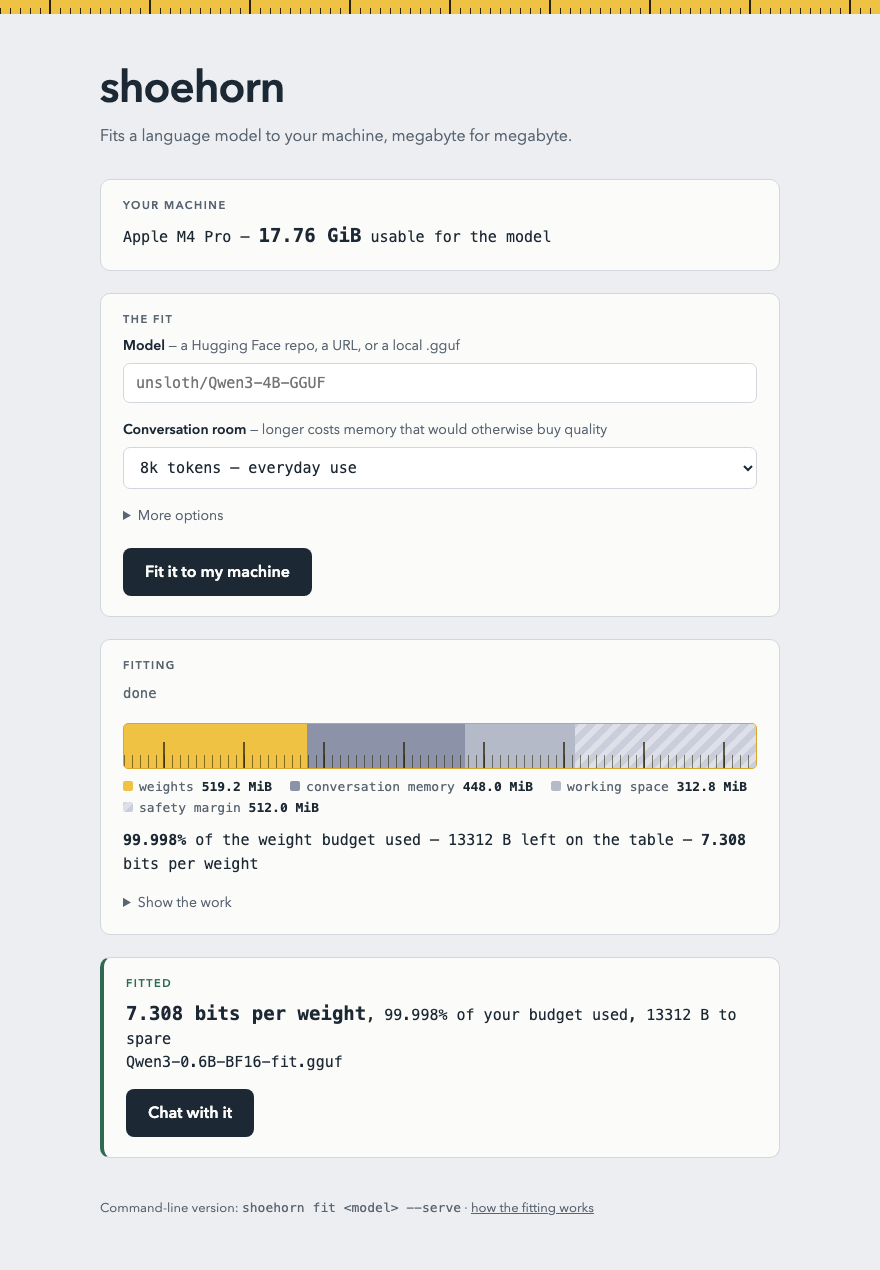
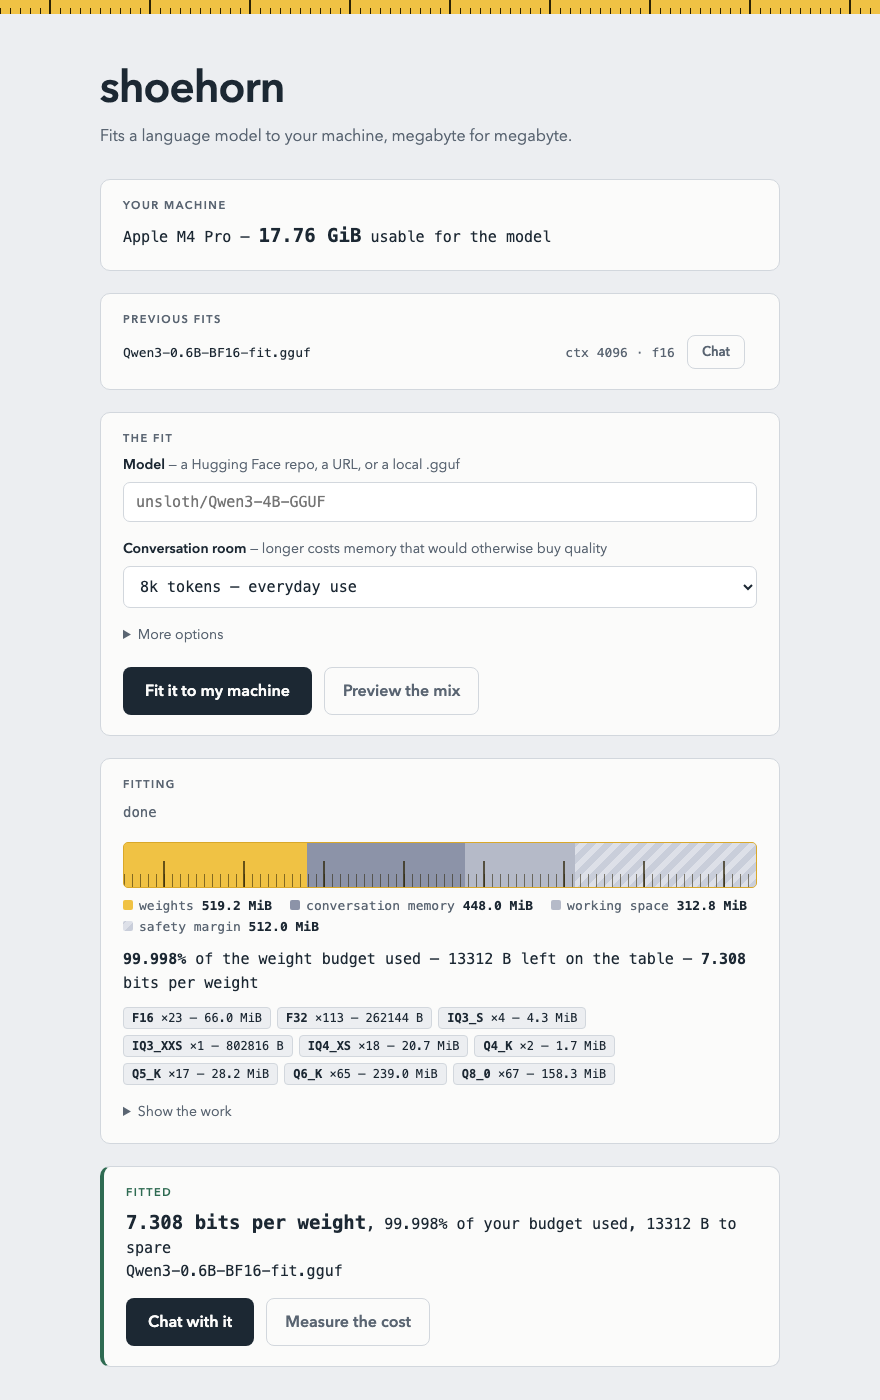
docs: sweep README for drift — calibrate documented, IQ ladder, non-Apple probes in How-it-works, testing section current, fresh UI screenshots

diff --git a/README.md b/README.md
@@ -196,18 +196,20 @@ The pipeline runs in five stages.
 
 Probing comes first. On Apple Silicon, "VRAM" is not RAM: Metal will only wire
 a fraction of unified memory for the GPU. shoehorn asks the Metal device for
-`recommendedMaxWorkingSetSize` (17.76 GiB on a 24 GB M4 Pro, about 75%).
-`--budget` overrides the probe, which also lets you quantize for a different
-machine ("make this fit my friend's 8 GiB M1") or for an artificial envelope.
+`recommendedMaxWorkingSetSize` (17.76 GiB on a 24 GB M4 Pro, about 75%). On
+other machines it asks NVML — or `rocm-smi` on AMD — for the first device's
+free VRAM. `--budget` overrides the probe, which also lets you quantize for a
+different machine ("make this fit my friend's 8 GiB M1") or for an
+artificial envelope.
 
 Next it computes the budget. From the target context length and the model's
 own GGUF hyperparameters, shoehorn computes the KV cache size exactly and
 estimates the compute buffer, then subtracts both plus a safety `--reserve`.
 What remains is the weight budget. See [The budget model](#the-budget-model).
 
-Then it measures. Every quantizable tensor gets a candidate ladder (Q4_K,
-Q5_K, Q6_K, Q8_0, F16, or the legacy 32-block formats when the row length
-isn't divisible by 256). Each (tensor, candidate) pair is scored by actually
+Then it measures. Every quantizable tensor gets a candidate ladder — the IQ
+codebook formats (IQ2_XXS up through IQ4_XS), the K-quants, Q8_0, and F16,
+or the legacy 32-block formats when the row length isn't divisible by 256. Each (tensor, candidate) pair is scored by actually
 encoding and decoding a sample of rows and accumulating the imatrix-weighted
 squared error. That is the true end-to-end distortion under the decoder
 llama.cpp will use. The work parallelizes across all cores; on Qwen3-0.6B the
@@ -365,7 +367,8 @@ Fit flags, shared by `fit`, `plan`, and `quantize`:
 | `--budget` | GPU probe | total memory envelope: `18GiB`, `800MB`, `4.5G`, or plain bytes |
 | `--target` | — | budget for a different unified-memory machine by RAM size, e.g. `--target 16GB` (approximates the macOS working-set limit as 74% of RAM) |
 | `--kv` | f16 | KV cache type to budget for and run with (`f16`, `q8_0`, `q4_0`); `q8_0` roughly halves the KV term, freeing that memory for weights |
-| `--reserve` | 512MiB | safety margin subtracted from the envelope |
+| `--reserve` | 512MiB (160MiB with `--calibrate`) | safety margin subtracted from the envelope |
+| `--calibrate` | off | after writing, load the result in llama.cpp once, measure real KV/compute allocations, re-solve with them, and rewrite — spending the recovered estimate slack on quality (unchanged tensors are reused) |
 | `--exact-errors` | off | score every row instead of a 128-row sample per tensor |
 
 `plan` and `quantize` print the full per-tensor table (shape, chosen type,
@@ -377,7 +380,7 @@ is passed through (`--port`, `--api-key`, ...).
 
 `vram` prints the detected device and its usable GPU memory: Metal's
 recommended working-set size on macOS, NVML's free VRAM on the first NVIDIA
-device elsewhere.
+device elsewhere, with a `rocm-smi` fallback for AMD.
 
 `eval` wraps `llama-perplexity` so you can check what a fit actually cost:
 it measures perplexity on held-out text (by default man pages disjoint from
@@ -504,6 +507,7 @@ filled to the byte.
 
 ```
 src/gguf.rs      GGUF v3 reader/writer (arbitrary KVs preserved, aligned offsets)
+src/fetch.rs     HF repo / URL resolution, shard-aware downloads, auto-imatrix
 src/quant.rs     the 8 scale+round encoders + decoders, weighted scale search
 src/quant_iq.rs  the 7 IQ codebook encoders + decoders, lattice neighbour search
 src/iq_tables.rs script-extracted lattice/codebook tables (generated file)
@@ -513,7 +517,8 @@ src/vram.rs      GPU probe: Metal working set (macOS), NVML free VRAM (elsewhere
 src/main.rs      CLI, budget model, measurement orchestration (rayon)
 src/ui.rs        `shoehorn ui` local web server driving fit as a subprocess
 src/ui.html      the page it serves (embedded at compile time)
-DESIGN.md        the how/why of every decision, in order (D1-D10), gotchas
+src/e2e_tests.rs synthetic-GGUF pipeline test + metadata roundtrip
+DESIGN.md        the how/why of every decision, in order (D1-D14), gotchas
 docs/            decision-graph export (deciduous)
 ```
 
@@ -521,8 +526,16 @@ docs/            decision-graph export (deciduous)
 
 `cargo test` covers round-trip encode/decode for every format against RMSE
 tolerance, a check that imatrix weighting actually shifts the fit toward
-important columns, and solver unit tests (max quality when everything fits,
-budget respected, infeasibility detected).
+important columns, solver unit tests (max quality when everything fits,
+budget respected, infeasibility detected), HF file/shard selection, the
+rocm-smi parser, a metadata roundtrip over every GGUF value type, and an
+end-to-end pipeline test that synthesizes a small BF16 GGUF, fits it into a
+deliberately tight budget, and re-reads the output. All of it runs in CI on
+macOS, Linux, and Windows.
+
+For measuring what a specific fit cost on your machine, `shoehorn eval -m
+fitted.gguf --baseline source.gguf` prints held-out perplexity for both and
+the delta.
 
 The end-to-end oracle is llama.cpp itself: an independent implementation
 loads the quantized file on Metal. A single mispacked bit plane produces
@@ -535,10 +548,10 @@ perplexity is strong evidence the encoders are bit-compatible.
   not implemented; below IQ2 quality collapses for all but very large models
   anyway. Expect IQ-heavy encodes to be slower than K-quant ones (lattice
   neighbour search): the 0.6B test model takes ~25 s instead of ~6 s.
-- The compute buffer is an estimate. Real allocation varies by llama.cpp
-  version and flash-attention path; `--reserve` absorbs the difference. A
-  `--calibrate` mode that launches llama.cpp once and reads back actual
-  allocations would replace the guess with a measurement.
+- The compute buffer is an estimate (real allocation varies by llama.cpp
+  version and flash-attention path; `--reserve` absorbs the difference)
+  unless you pass `--calibrate`, which replaces the guess with a measured
+  one at the cost of one extra model load and a partial rewrite.
 - The probe covers Metal (macOS), NVML (NVIDIA on Linux/Windows), and
   rocm-smi (AMD on Linux, parse-based and not yet exercised on real
   hardware). Intel GPUs need an explicit `--budget`. Off-macOS the probe
